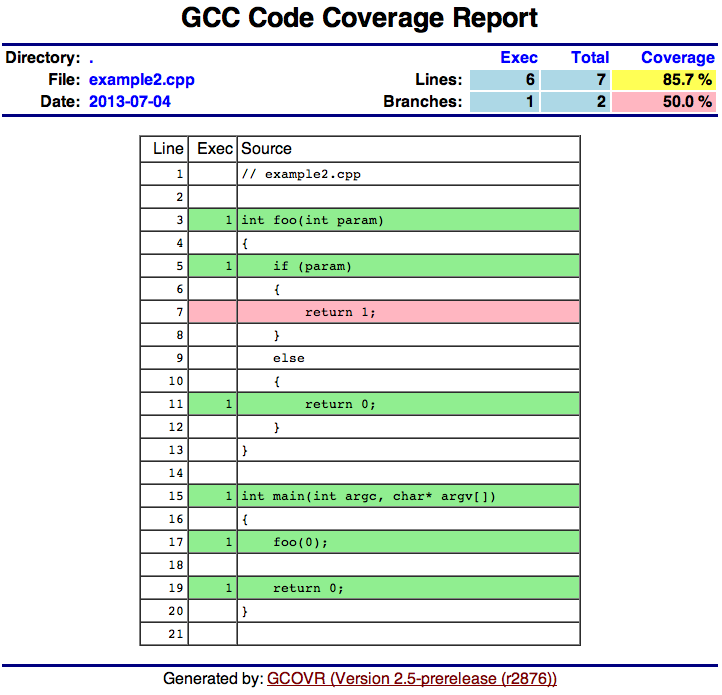
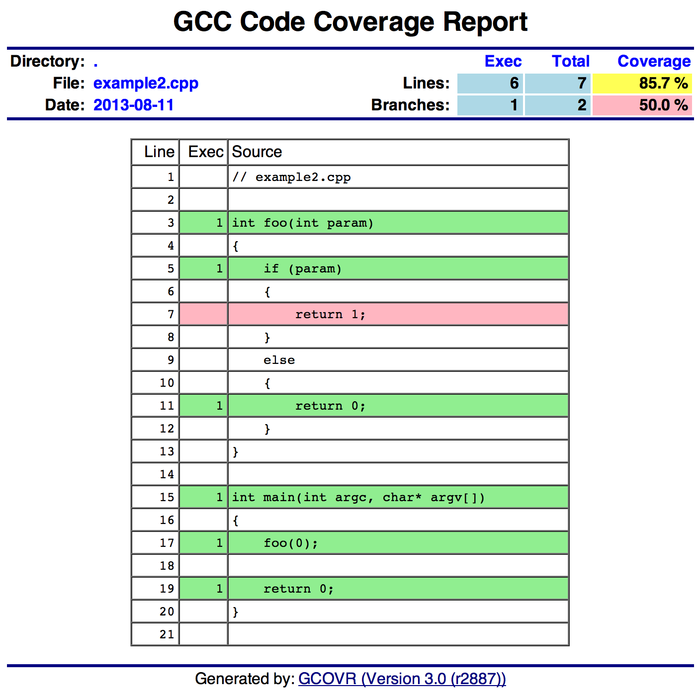
Revisions to prepare for tagging gcovr 3.0.  Mostly, these are documentation updates.

Changed region(s): [[0.0, 0.0, 1.0, 0.9971]]

diff --git a/doc/examples/test_examples.py b/doc/examples/test_examples.py
@@ -13,9 +13,10 @@ compilerre = re.compile("^(?P<path>[^:]+)(?P<rest>:.*)$")
 dirre      = re.compile("^([^%s]*/)*" % re.escape(os.sep))
 xmlre      = re.compile("\"(?P<path>[^\"]*/[^\"]*)\"")
 datere     = re.compile("date=\"[^\"]*\"")
+versionre  = re.compile("version=\"[^\"]*\"")
+timestampre = re.compile("timestamp=\"[^\"]*\"")
 failure    = re.compile("^(?P<prefix>.+)file=\"(?P<path>[^\"]+)\"(?P<suffix>.*)$")
 
-#print "FOO", dirre 
 def filter(line):
     # for xml, remove prefixes from everything that looks like a 
     # file path inside ""
@@ -25,6 +26,10 @@ def filter(line):
             )
     # Remove date info
     line = datere.sub( lambda match: 'date=""', line)
+    # Remove version info
+    line = versionre.sub( lambda match: 'version=""', line)
+    # Remove timestamp info
+    line = timestampre.sub( lambda match: 'timestamp=""', line)
 
     if 'Running' in line:
         return False

diff --git a/setup.py b/setup.py
@@ -23,7 +23,7 @@ from setuptools import setup
 scripts = glob.glob("scripts/*")
 
 setup(name='gcovr',
-      version='2.5',
+      version='3.0',
       maintainer='William Hart',
       maintainer_email='wehart@sandia.gov',
       url = 'https://software.sandia.gov/svn/public/fast/gcovr',
